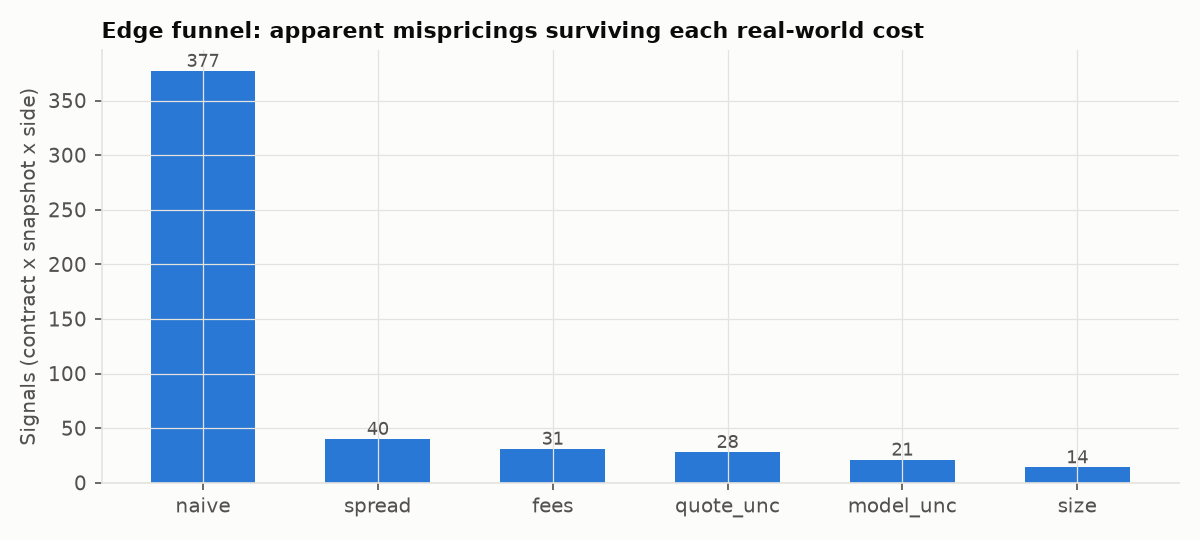
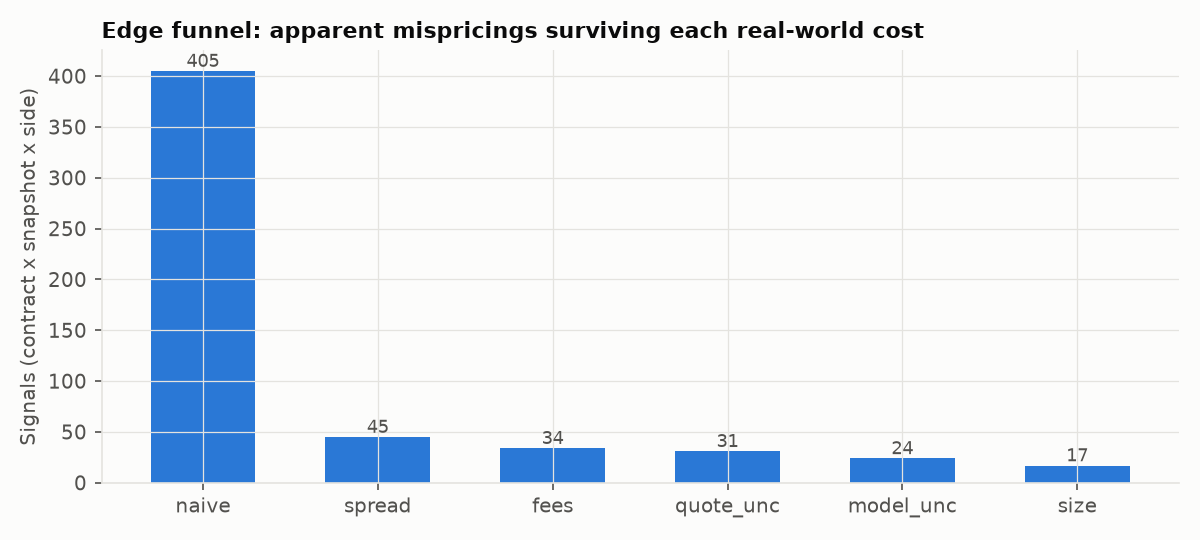
data: 2026-11-10T20:31Z

diff --git a/results/REPORT.md b/results/REPORT.md
@@ -1,24 +1,24 @@
 # Kalshi vs options: research report
-_Generated 2026-11-09 23:04 UTC by `python -m kme report`. Every figure below is computed from files in `data/`; sections without enough data say so._
+_Generated 2026-11-10 20:31 UTC by `python -m kme report`. Every figure below is computed from files in `data/`; sections without enough data say so._
 
 ## Data coverage
-- Panel rows: 1,080 (1,080 live, 0 backfill); rows without a synchronised Kalshi quote: 15
-- Candle-replay check (candle state at fetch time == live book, live rows): 95.4% of 1,065 rows agree
-- Snapshots: 24; events: 19; first decision 2026-10-09T19:44:21.670578+00:00, last 2026-11-06T19:45:26.014137+00:00
+- Panel rows: 1,140 (1,140 live, 0 backfill); rows without a synchronised Kalshi quote: 15
+- Candle-replay check (candle state at fetch time == live book, live rows): 95.3% of 1,125 rows agree
+- Snapshots: 25; events: 21; first decision 2026-10-09T19:44:21.670578+00:00, last 2026-11-10T20:05:58.397796+00:00
 - Settled events with outcomes: 19
-- Smile model chosen: {'spline': 23, 'svi': 1}
+- Smile model chosen: {'spline': 24, 'svi': 1}
 
 ## Edge funnel
 Stages are cumulative (see `src/kme/edge.py`). Kalshi prices are synchronised to the option chain's as-of time, so this measures mispricing; it is a tradeable backtest only with a real-time option feed. Model-error tolerance = 0.0021 (range contracts, same-day only). P&L is per contract after fees, t-stat clusters by event day, shown only with >= 40 settled event days.
 
 | stage     |   signals |   contracts_distinct |   event_days |   settled_signals |   settled_days |   mean_pnl |   hit_rate |   daily_mean |   t_stat |
 |:----------|----------:|---------------------:|-------------:|------------------:|---------------:|-----------:|-----------:|-------------:|---------:|
-| naive     |       377 |                  204 |           19 |               377 |             19 |        nan |        nan |          nan |      nan |
-| spread    |        40 |                   38 |           18 |                40 |             18 |        nan |        nan |          nan |      nan |
-| fees      |        31 |                   31 |           17 |                31 |             17 |        nan |        nan |          nan |      nan |
-| quote_unc |        28 |                   28 |           17 |                28 |             17 |        nan |        nan |          nan |      nan |
-| model_unc |        21 |                   21 |           15 |                21 |             15 |        nan |        nan |          nan |      nan |
-| size      |        14 |                   14 |           13 |                14 |             13 |        nan |        nan |          nan |      nan |
+| naive     |       405 |                  232 |           21 |               377 |             19 |        nan |        nan |          nan |      nan |
+| spread    |        45 |                   43 |           20 |                40 |             18 |        nan |        nan |          nan |      nan |
+| fees      |        34 |                   34 |           18 |                31 |             17 |        nan |        nan |          nan |      nan |
+| quote_unc |        31 |                   31 |           18 |                28 |             17 |        nan |        nan |          nan |      nan |
+| model_unc |        24 |                   24 |           16 |                21 |             15 |        nan |        nan |          nan |      nan |
+| size      |        17 |                   17 |           14 |                14 |             13 |        nan |        nan |          nan |      nan |
 
 ## Which forecast was better? (log score on the realised range)
 ```
